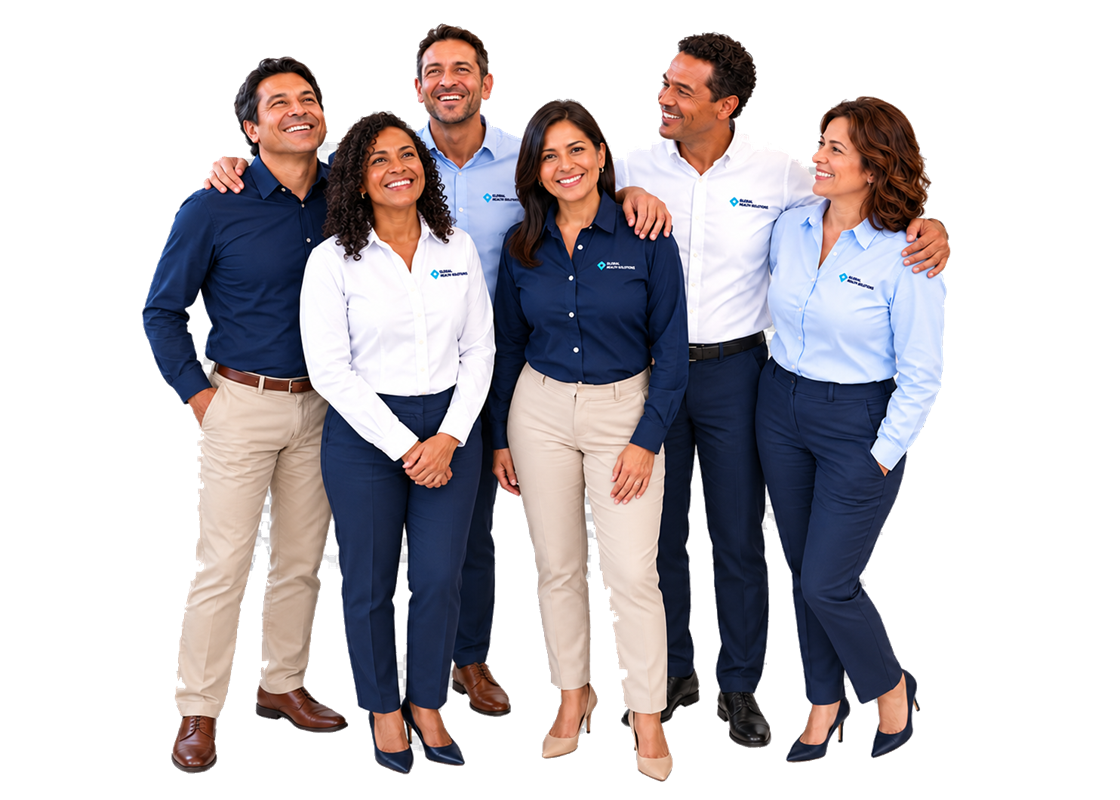
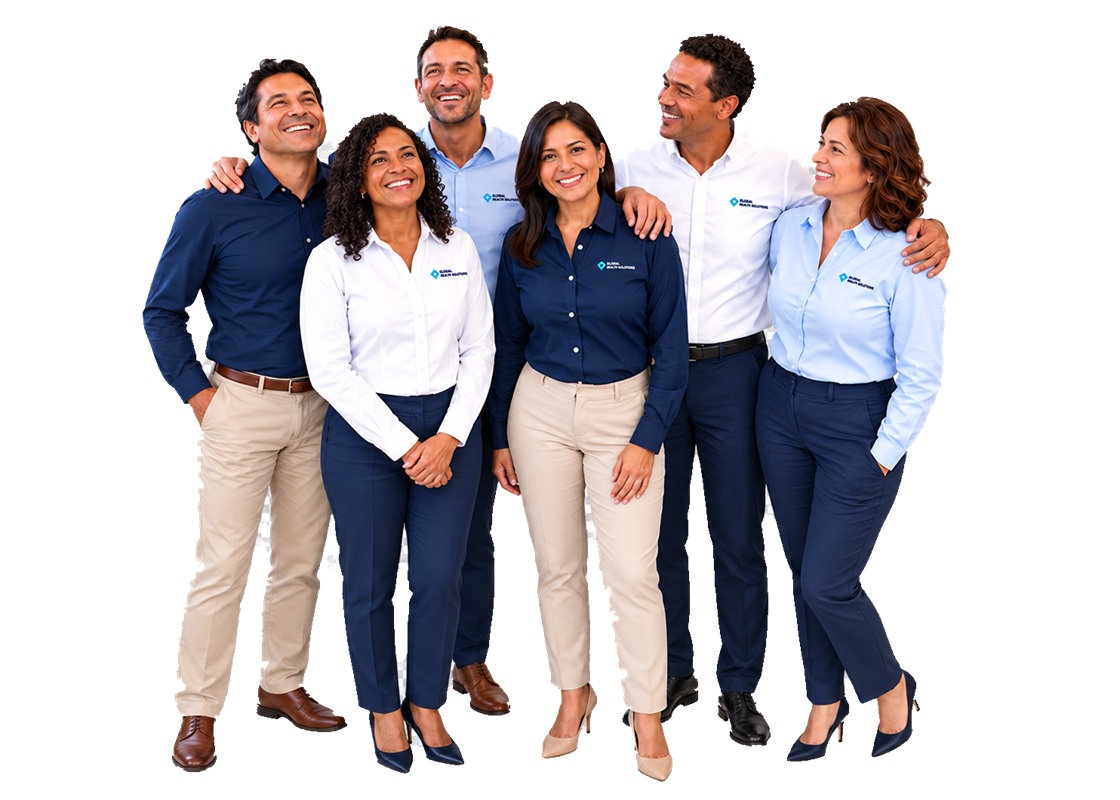
Centra en vertical las fotos de #generaciones y limpia el halo del recorte
Posicion: la foto baja 32px. Medido a 1512x860, el espacio libre de la vista
estaba repartido 34px sobre la foto y 98px bajo la lista, y por eso la foto se
veia pegada a la cabecera; con 32 queda equilibrado. Se aplica como margin-top
para que la fila crezca y la lista baje con ella, en vez de que la foto se le
monte encima, y el max-height pasa a calc(100vh - 462px) para descontar esos
32px y no desbordar en pantallas bajas (verificado: el desborde que hay a
1024x640 es identico antes y despues, ya venia de antes). En movil la fila va en
columna, asi que ahi el margin se anula.

Halo: las siluetas llevaban un anillo claro alrededor, visible sobre el fondo
claro de la vista. Eran restos del tablero que sobrevivieron opacos, de media 31
a 59 niveles de tono mas claros que el interior de la silueta. Se erosionan
comparando cada pixel del borde con la media de los opacos a 4-7px de distancia
(no pegados: el anillo tiene 2px de grosor y se colaba en su propia referencia).
Tras la erosion la diferencia media baja a +2 y +5. Se anade un despuntado por
geometria para el pantalon caqui de e2bd364b, donde el gris del tablero (188) y
la tela (~200) son casi el mismo tono y ningun criterio de color los separa.
Al reescalar, el color de la zona transparente se propaga desde los pixeles
opacos en vez de pintarse de blanco, para que el borde interpolado no aclare.

diff --git a/index.html b/index.html
@@ -306,8 +306,16 @@ img{max-width:100%; display:block;}
   /* ALTO: el alto de esta fila lo define la foto, y la lista va DESPUES, asi que
      cada pixel de foto empuja la lista hacia abajo. Se limita a 380px para que
      la lista suba; el calc lo recorta antes en pantallas bajas.
-     contain reescala la foto sin deformarla cuando el box se recorta. */
-  max-height:clamp(180px, calc(100vh - 430px), 380px);
+     contain reescala la foto sin deformarla cuando el box se recorta.
+     El 462 (antes 430) descuenta los 32px del margin-top de abajo, para que en
+     pantallas bajas la foto siga cediendo el alto que hace falta y no desborde. */
+  max-height:clamp(180px, calc(100vh - 462px), 380px);
+  /* La foto baja 32px. Ese es el valor que reparte por igual el espacio libre
+     de la vista: sin el, quedaban 34px sobre la foto y 98px bajo la lista, y la
+     foto se veia pegada a la cabecera. Con 32 quedan 66 y 66.
+     Va como margin (no como position:relative) para que la fila crezca y la
+     lista baje con ella, en vez de que la foto se le monte encima. */
+  margin-top:32px;
 }
 /* Las fotos son recortes con fondo transparente (sin recuadro): el degradado real
    de la seccion se ve directamente detras de cada persona, sin veto ni caja visible. */
@@ -328,7 +336,9 @@ img{max-width:100%; display:block;}
   .gen-head-row{flex-direction:column; gap:8px;}
   /* En columna el eje cruzado es el horizontal: sin esto el texto se centraria. */
   .gen-head-left{align-self:stretch;}
-  .gen-head-right{width:100%; max-width:100%; aspect-ratio:730/500;}
+  /* En columna la foto va debajo del texto: el margin-top que la centra en
+     escritorio aqui solo abriria un hueco entre los dos. */
+  .gen-head-right{width:100%; max-width:100%; aspect-ratio:730/500; margin-top:0;}
   #generaciones .gen-head-left .kicker{margin-bottom:12px;}
   #generaciones .gen-head-left .section-title{margin-bottom:10px;}
   #generaciones .gen-head-left .section-head{margin-bottom:14px;}
